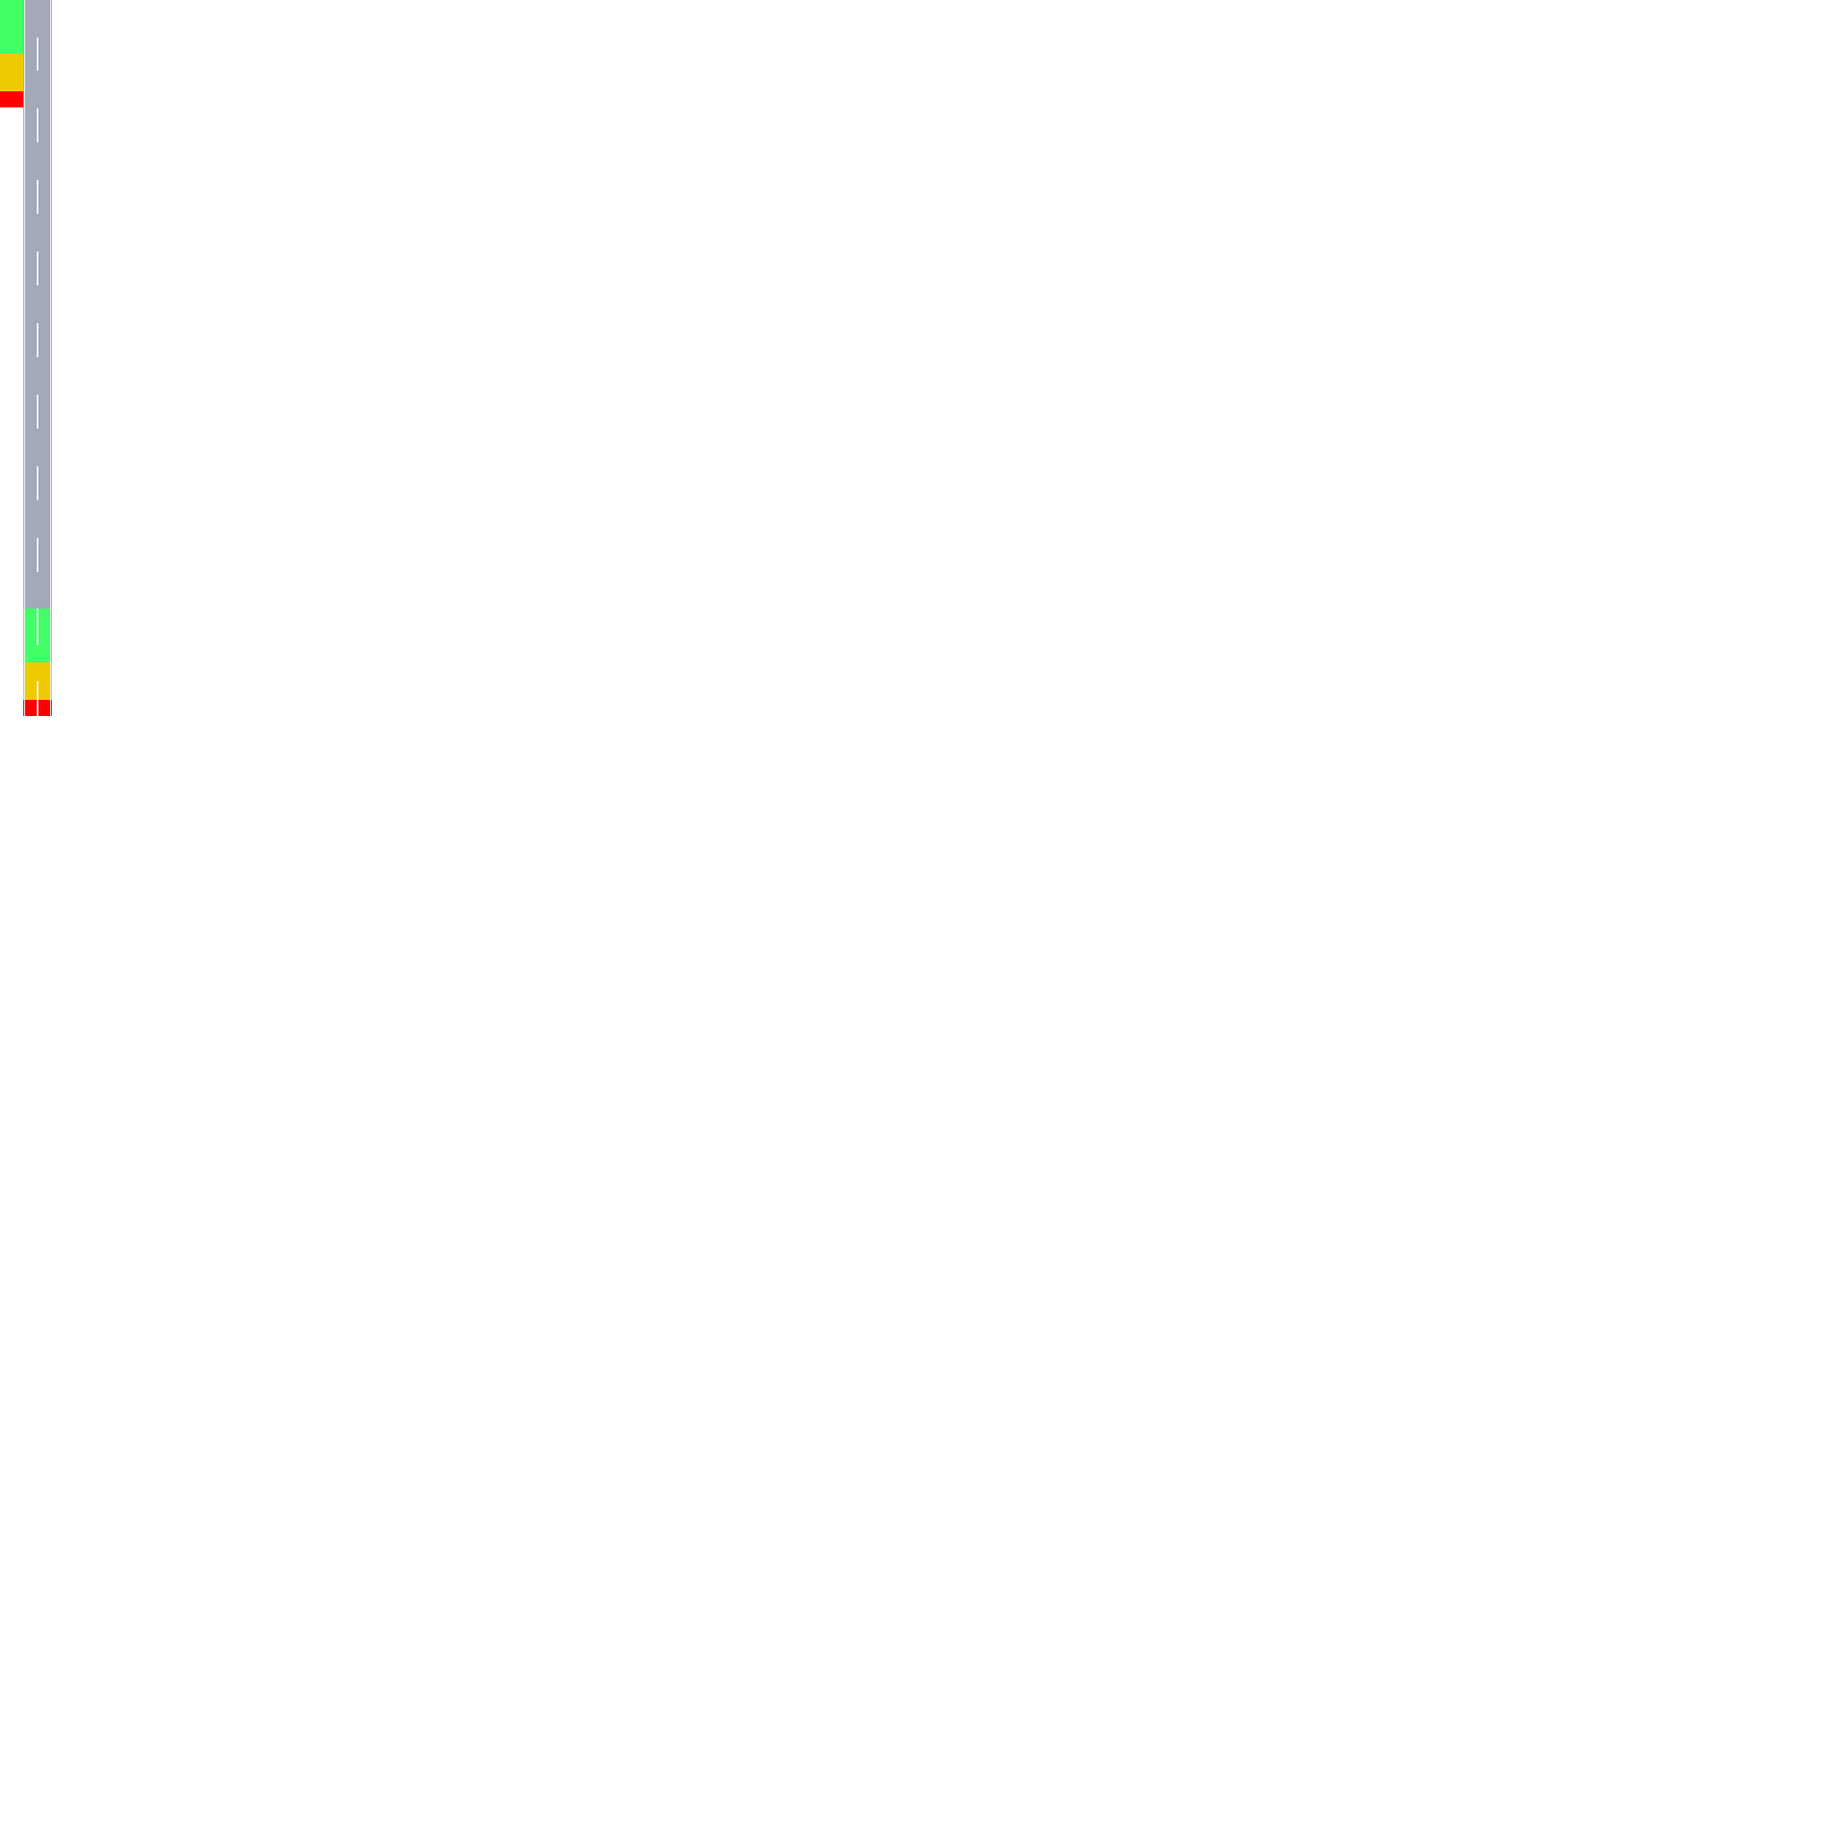
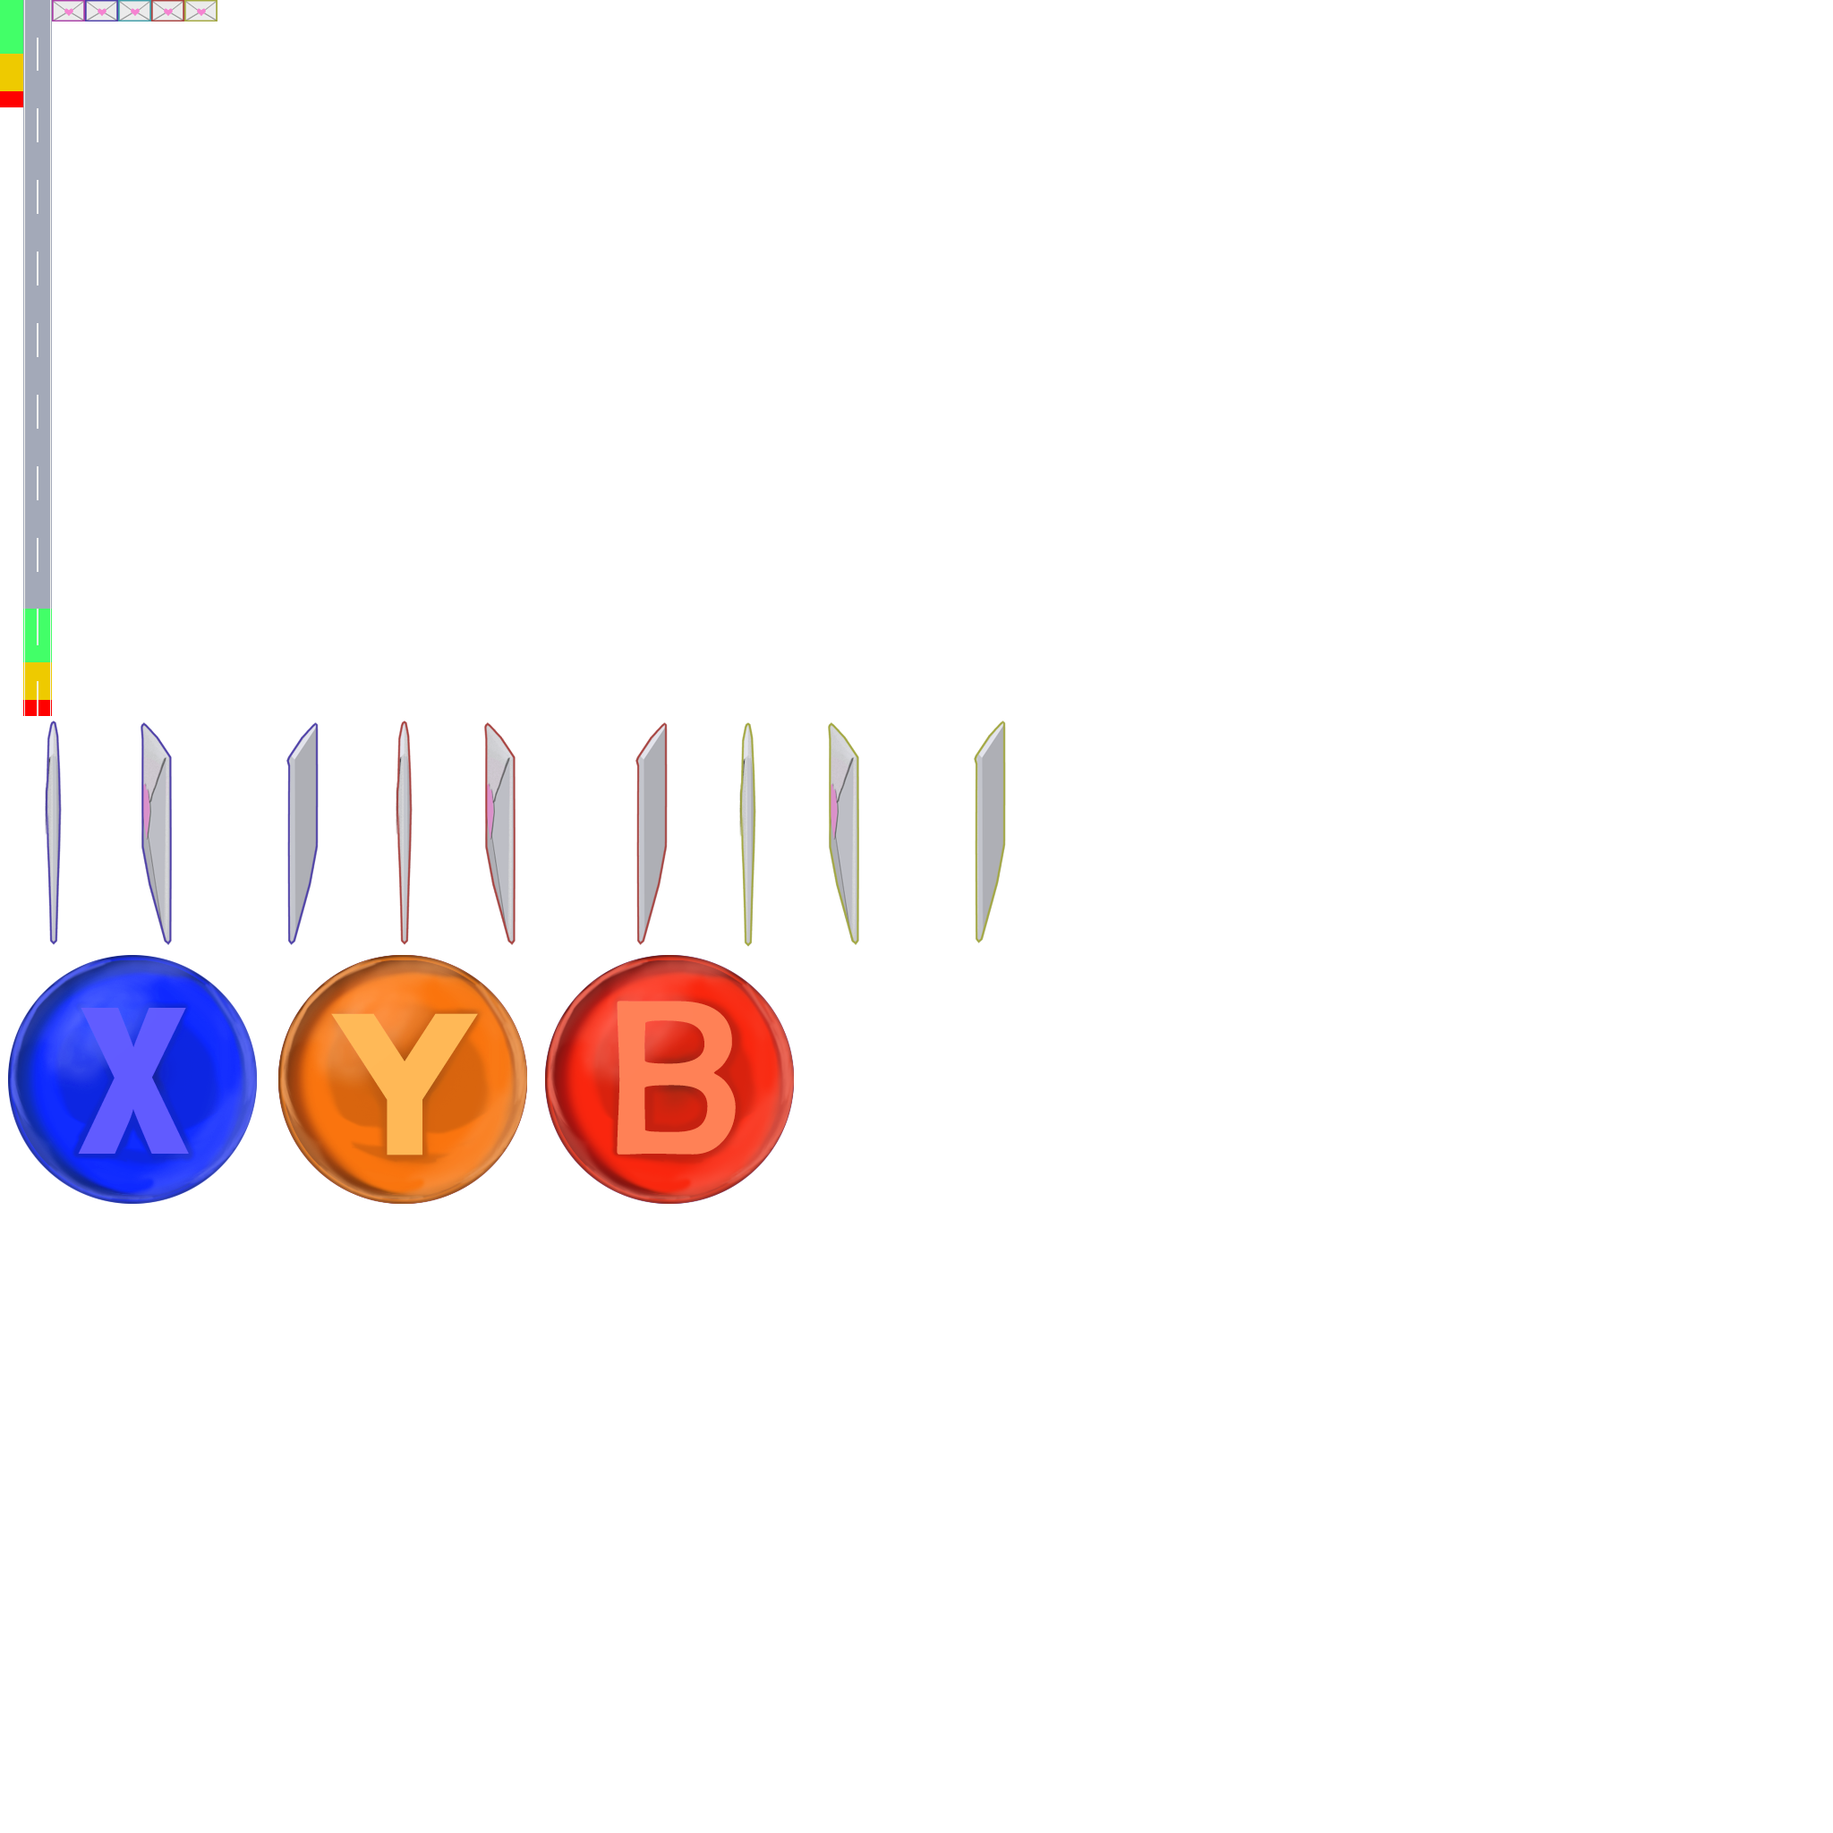
作業内容
- 距離ゲージの表示が正しくなかったので修正
- リザルト画面でコンティニューとタイトルに早く戻れるように変更
- 手紙同士が相殺されていなかったので修正

diff --git a/FrameWork/FrameWork/Fighting/Main/SceneManager/SceneBase/GameScene/GameScene.cpp b/FrameWork/FrameWork/Fighting/Main/SceneManager/SceneBase/GameScene/GameScene.cpp
@@ -35,6 +35,8 @@ SceneBase(SCENE_GAME)
 	m_Rect = D3DXVECTOR2(45 * 2, 96 * 2);
 	FrameCount = 300;
 	SINGLETON_INSTANCE(Lib::TextureManager).Load("Resource/test_001.png",&m_TextureIndex);
+	SINGLETON_INSTANCE(Lib::TextureManager).Load("Resource/test_006.png", &m_ButtonTextureIndex);
+	
 	m_pUvController = new Lib::AnimUvController();
 	m_pUvController->LoadAnimation("Resource/test_001.anim", "Number");
 	m_pVertex = new Lib::Vertex2D(
@@ -45,6 +47,20 @@ SceneBase(SCENE_GAME)
 	m_pVertex->SetTexture(
 		SINGLETON_INSTANCE(Lib::TextureManager).GetTexture(m_TextureIndex));
 
+	m_pXButtonUvController = new Lib::AnimUvController();
+	m_pXButtonUvController->LoadAnimation("Resource/test_006.anim", "b_x");
+	m_pYButtonUvController = new Lib::AnimUvController();
+	m_pYButtonUvController->LoadAnimation("Resource/test_006.anim", "b_y");
+	m_pBButtonUvController = new Lib::AnimUvController();
+	m_pBButtonUvController->LoadAnimation("Resource/test_006.anim", "b_b");
+
+	m_pButtonVertex = new Lib::Vertex2D(
+		SINGLETON_INSTANCE(Lib::DX11Manager).GetDevice(),
+		SINGLETON_INSTANCE(Lib::DX11Manager).GetDeviceContext(),
+		SINGLETON_INSTANCE(Lib::Window).GetWindowSize());
+	m_pButtonVertex->Init(&D3DXVECTOR2(100,100), m_pUvController->GetUV());
+	m_pButtonVertex->SetTexture(
+		SINGLETON_INSTANCE(Lib::TextureManager).GetTexture(m_ButtonTextureIndex));
 
 	SINGLETON_CREATE(CollisionManager);
 	m_pObjectManager = new ObjectManager();
@@ -61,9 +77,16 @@ GameScene::~GameScene()
 
 	Lib::SafeDelete<ObjectManager>(m_pObjectManager);
 
+	m_pButtonVertex->Release();
+	Lib::SafeDelete(m_pButtonVertex);
+
+	Lib::SafeDelete(m_pBButtonUvController);
+	Lib::SafeDelete(m_pYButtonUvController);
+	Lib::SafeDelete(m_pXButtonUvController);
+
 	m_pVertex->Release();
 	Lib::SafeDelete<Lib::Vertex2D>(m_pVertex);
-
+	SINGLETON_INSTANCE(Lib::TextureManager).ReleaseTexture(m_ButtonTextureIndex);
 	SINGLETON_INSTANCE(Lib::TextureManager).ReleaseTexture(m_TextureIndex);
 
 	Lib::SafeDelete<Lib::AnimUvController>(m_pUvController);
@@ -116,6 +139,15 @@ void GameScene::Draw()
 	if (FrameCount > 60 && FrameCount < 240)
 	{
 		m_pVertex->Draw(&m_Pos,m_pUvController->GetUV());
+		D3DXVECTOR2 pos = SINGLETON_INSTANCE(GameDataManager).GetPos(GameDataManager::LEFT_ENEMY_TARGET);
+		pos.y -= 180.f;
+		m_pButtonVertex->Draw(&pos, m_pXButtonUvController->GetUV());
+		pos = SINGLETON_INSTANCE(GameDataManager).GetPos(GameDataManager::FRONT_ENEMY_TARGET);
+		pos.y -= 180.f;
+		m_pButtonVertex->Draw(&pos, m_pYButtonUvController->GetUV());
+		pos = SINGLETON_INSTANCE(GameDataManager).GetPos(GameDataManager::RIGHT_ENEMY_TARGET);
+		pos.y -= 180.f;
+		m_pButtonVertex->Draw(&pos, m_pBButtonUvController->GetUV());
 	}
 	SINGLETON_INSTANCE(Lib::DX11Manager).EndScene();
 }

diff --git a/FrameWork/FrameWork/Fighting/Main/SceneManager/SceneBase/GameScene/ObjectManager/ObjectBase/GameObjectBase/Player/Player.cpp b/FrameWork/FrameWork/Fighting/Main/SceneManager/SceneBase/GameScene/ObjectManager/ObjectBase/GameObjectBase/Player/Player.cpp
@@ -13,6 +13,7 @@
 #include "XInput/XInput.h"
 #include "Sound/DSoundManager.h"
 #include "Helper/Helper.h"
+#include "Event/EventManager.h"
 
 const D3DXVECTOR2 Player::m_RectCollision = D3DXVECTOR2(100, 230);
 
@@ -22,14 +23,24 @@ Player::Player(int _textureIndex)
 	m_pCollisionData = new CollisionData();
 	m_pHandBase.push_back(new RightHand(_textureIndex));
 	m_pHandBase.push_back(new LeftHand(_textureIndex));
-
+	m_ImmortalTime = 0;
 	RECT ClientRect = SINGLETON_INSTANCE(Lib::Window).GetWindowSize();
 	m_Pos.x = static_cast<float>(ClientRect.right / 2);
 	m_Pos.y = static_cast<float>(ClientRect.bottom);
 	m_pCollisionData->SetCollision(&D3DXVECTOR3(m_Pos), &m_RectCollision, CollisionData::PLAYER_TYPE);
-	m_pCollisionData->SetEnable(false);
+	m_pCollisionData->SetEnable(true);
 	SINGLETON_INSTANCE(CollisionManager).AddCollision(m_pCollisionData);
 	SINGLETON_INSTANCE(Lib::DSoundManager).LoadSound("Resource/Sound/se/houchouSE_nagekaeshi.wav", &m_KnifeThrowSoundIndex);
+	
+	SINGLETON_INSTANCE(Lib::EventManager).AddEvent("PlayerDamage", [this]()
+	{
+		if (m_ImmortalTime == 0)
+		{
+			m_ImmortalTime = 120;
+			int playerHp = SINGLETON_INSTANCE(GameDataManager).GetPlayerHp();
+			SINGLETON_INSTANCE(GameDataManager).SetPlayerHp(--playerHp);
+		}
+	});
 }
 
 Player::~Player()
@@ -52,11 +63,14 @@ void Player::Update()
 {
 	KeyCheck();
 	GamePadCheck();
+	if (m_ImmortalTime > 0)
+	{
+		m_ImmortalTime--;
+	}
 
 	m_pCollisionData->SetCollision(&D3DXVECTOR3(m_Pos), &m_RectCollision, CollisionData::PLAYER_TYPE);
 
 	RECT ClientRect = SINGLETON_INSTANCE(Lib::Window).GetWindowSize();
-
 	for (unsigned int i = 0; i < m_pHandBase.size(); i++)
 	{
 		m_pHandBase[i]->Update();

diff --git a/FrameWork/FrameWork/Fighting/Main/SceneManager/SceneBase/GameScene/CollisionManager/CollisionData/CollisionData.cpp b/FrameWork/FrameWork/Fighting/Main/SceneManager/SceneBase/GameScene/CollisionManager/CollisionData/CollisionData.cpp
@@ -49,12 +49,34 @@ bool CollisionData::HitCheck(const CollisionState* _collisionState)
 	}
 
 	
-	if (CollisionCheck(AMAZING_PLAYER_KNIFE_TYPE, ENEMY_KNIFE_TYPE))
+	if (CollisionCheck(AMAZING_PLAYER_KNIFE_TYPE,ENEMY_KNIFE_TYPE) ||
+		CollisionCheck(GOOD_PLAYER_KNIFE_TYPE,ENEMY_KNIFE_TYPE) ||
+		CollisionCheck(FANTASTIC_PLAYER_KNIFE_TYPE,ENEMY_KNIFE_TYPE))
 	{
-		if (Lib::Math::GetDistance(v1.Pos, v2.Pos) < 20.f)
+		if (Lib::Math::GetDistance(v1.Pos, v2.Pos) <= 20.f)
 		{
 			m_CollisionState.HitState = KNIFE_HIT;
 			return true;	
+		}
+		else
+		{
+			m_CollisionState.HitState = NON_HIT;
+			return false;
+		}
+	}
+
+	if (CollisionCheck(ENEMY_KNIFE_TYPE, AMAZING_PLAYER_KNIFE_TYPE) ||
+		CollisionCheck(ENEMY_KNIFE_TYPE, GOOD_PLAYER_KNIFE_TYPE) ||
+		CollisionCheck(ENEMY_KNIFE_TYPE, FANTASTIC_PLAYER_KNIFE_TYPE))
+	{
+		if (m_CollisionState.CollisionType == ENEMY_KNIFE_TYPE)
+		{
+			int var = 0;
+		}
+		if (Lib::Math::GetDistance(v1.Pos, v2.Pos) <= 20.f)
+		{
+			m_CollisionState.HitState = KNIFE_HIT;
+			return true;
 		}
 		else
 		{
@@ -137,14 +159,6 @@ bool CollisionData::HitCheck(const CollisionState* _collisionState)
 				m_CollisionState.HitState = CATCH_HIT;
 				return true;
 			}
-		}
-		else if (v1.CollisionType == ENEMY_KNIFE_TYPE &&
-			v2.CollisionType == PLAYER_TYPE ||
-			v1.CollisionType == PLAYER_TYPE &&
-			v2.CollisionType == ENEMY_KNIFE_TYPE)
-		{
-			m_CollisionState.HitState = KNIFE_HIT;
-			return true;
 		}
 	}
 	m_CollisionState.HitState = NON_HIT;

diff --git a/FrameWork/FrameWork/Fighting/Main/SceneManager/SceneBase/GameScene/ObjectManager/ObjectBase/GameObjectBase/KnifeManager/Knife/Knife.cpp b/FrameWork/FrameWork/Fighting/Main/SceneManager/SceneBase/GameScene/ObjectManager/ObjectBase/GameObjectBase/KnifeManager/Knife/Knife.cpp
@@ -19,11 +19,6 @@ const D3DXVECTOR2 Knife::m_Rect = D3DXVECTOR2(192, 384);
 int	Knife::m_IndexMax = 0;
 
 
-namespace
-{
-	D3DXVECTOR2 g_oldPos = D3DXVECTOR2(0,0);
-}
-
 Knife::Knife(int _textureIndex) :
 m_IsThrow(false),
 m_IsCatch(false),
@@ -71,8 +66,6 @@ Knife::~Knife()
 void Knife::Update()
 {
 	if (!m_IsThrow) return;
-	g_oldPos = m_Pos;
-	
 	if (m_pCollisionData->GetCollisionState().HitState == CollisionData::NON_HIT 
 	&& !m_IsCatch)
 	{
@@ -142,9 +135,7 @@ void Knife::CollisionUpdate()
 	{
 		if (m_TargetDistance <= 0)
 		{
-			int playerHp = SINGLETON_INSTANCE(GameDataManager).GetPlayerHp();
 			SINGLETON_INSTANCE(Lib::EventManager).CallEvent("PlayerDamage");
-			SINGLETON_INSTANCE(GameDataManager).SetPlayerHp(--playerHp);
 			SINGLETON_INSTANCE(Lib::DSoundManager).SoundOperation(m_DamageSoundIndex,Lib::DSoundManager::SOUND_PLAY);
 			SINGLETON_INSTANCE(GameDataManager).SetKnifeBarIsEnable(m_Index, false);
 			m_pCollisionData->SetEnable(false);
@@ -226,6 +217,7 @@ void Knife::CollisionControl()
 		m_pCollisionData->SetEnable(false);
 		m_IsThrow = false;
 		m_IsCatch = false;
+		//SINGLETON_INSTANCE(Lib::EventManager).CallEvent("EnemyDamage");
 	}
 	else if (hitState == CollisionData::CATCH_HIT &&
 		m_Target == GameDataManager::PLAYER_TARGET)

diff --git a/FrameWork/FrameWork/Fighting/Main/SceneManager/SceneBase/ResultScene/JudgeCountWindow/JudgeCountWindow.cpp b/FrameWork/FrameWork/Fighting/Main/SceneManager/SceneBase/ResultScene/JudgeCountWindow/JudgeCountWindow.cpp
@@ -16,7 +16,7 @@ const float JudgeCountWindow::m_DisplayTime = 2.f;
 JudgeCountWindow::JudgeCountWindow(int _textureIndex) :
 	m_Alpha(0)
 {
-	m_Pos = D3DXVECTOR2(1150, 600);
+	m_Pos = D3DXVECTOR2(1000, 600);
 	m_pCountDisplayBase[0] = new GoodCountDisplay(_textureIndex, &D3DXVECTOR2(m_Pos.x, m_Pos.y + 70.f));
 	m_pCountDisplayBase[1] = new AmazingCountDisplay(_textureIndex, &D3DXVECTOR2(m_Pos.x, m_Pos.y));
 	m_pCountDisplayBase[2] = new FantasticCountDisplay(_textureIndex, &D3DXVECTOR2(m_Pos.x, m_Pos.y - 70.f));
@@ -42,16 +42,16 @@ bool JudgeCountWindow::Update()
 		m_pCountDisplayBase[i]->Update();
 	}
 	m_Alpha += m_AddAlphaValue;
-	if (m_Alpha > 1.f)
+	if (ResultScene::KeyCheck())
+	{
+		m_Alpha = 1.f;
+	}
+	if (m_Alpha >= 1.f)
 	{
 		m_Alpha = 1.f;
 		return true;
 	}
 
-	if (ResultScene::KeyCheck())
-	{
-		m_Alpha = 1.f;
-	}
 	return false;
 }
 

diff --git a/FrameWork/FrameWork/Fighting/Main/SceneManager/SceneBase/ResultScene/TimeWindow/TimeWindow.cpp b/FrameWork/FrameWork/Fighting/Main/SceneManager/SceneBase/ResultScene/TimeWindow/TimeWindow.cpp
@@ -19,7 +19,7 @@ m_Alpha(0)
 	SINGLETON_INSTANCE(Lib::TextureManager).Load("Resource/test_001.png", &m_TextureIndex);
 	RECT ClientRect = SINGLETON_INSTANCE(Lib::Window).GetWindowSize();
 
-	m_Pos = D3DXVECTOR2(550, 600);
+	m_Pos = D3DXVECTOR2(750, 600);
 	InitVertex(&m_Pos, &D3DXVECTOR2(24, 64), "t_colon", &m_ColonVertex);
 
 	InitVertex(&D3DXVECTOR2(m_Pos.x - (90.f - m_ColonVertex.Rect.x / 2), m_Pos.y), &D3DXVECTOR2(45, 96), "Number", &m_NumVertex[0]);
@@ -57,14 +57,14 @@ TimeWindow::~TimeWindow()
 bool TimeWindow::Update()
 {
 	m_Alpha += m_AddAlphaValue;
+	if (ResultScene::KeyCheck())
+	{
+		m_Alpha = 1.f;
+	}
 	if (m_Alpha > 1.f)
 	{
 		m_Alpha = 1.f;
 		return true;
-	}
-	if (ResultScene::KeyCheck())
-	{
-		m_Alpha = 1.f;
 	}
 	return false;
 }

diff --git a/FrameWork/FrameWork/Fighting/Main/SceneManager/SceneBase/ResultScene/ResultScene.cpp b/FrameWork/FrameWork/Fighting/Main/SceneManager/SceneBase/ResultScene/ResultScene.cpp
@@ -46,7 +46,7 @@ SceneBase(SCENE_RESULT)
 	else
 	{
 		SINGLETON_INSTANCE(Lib::DSoundManager).LoadSound("Resource/Sound/bgm/gameclearBGM.wav", &m_BgmSoundIndex);
-		SINGLETON_INSTANCE(Lib::TextureManager).Load("Resource/TitleBackGround.png", &m_BackGroundTextureIndex);
+		SINGLETON_INSTANCE(Lib::TextureManager).Load("Resource/Clear.png", &m_BackGroundTextureIndex);
 	}
 	SINGLETON_INSTANCE(Lib::TextureManager).Load("Resource/Text.png", &m_TextTextureIndex);
 	SINGLETON_INSTANCE(Lib::TextureManager).Load("Resource/test_001.png", &m_TextureIndex);

diff --git a/FrameWork/FrameWork/Fighting/Main/SceneManager/SceneBase/GameScene/GameScene.h b/FrameWork/FrameWork/Fighting/Main/SceneManager/SceneBase/GameScene/GameScene.h
@@ -53,6 +53,14 @@ private:
 	int					   m_TextureIndex;
 	int					   m_CountdownSoundIndex;
 	int					   m_BgmSoundIndex;
+
+	/* カウントダウン時のみボタンの案内を出す */
+	int					   m_ButtonTextureIndex;
+	Lib::AnimUvController* m_pXButtonUvController;
+	Lib::AnimUvController* m_pYButtonUvController;
+	Lib::AnimUvController* m_pBButtonUvController;
+	Lib::Vertex2D*		   m_pButtonVertex;
+
 };
 
 

diff --git a/FrameWork/FrameWork/Fighting/Main/SceneManager/SceneBase/ResultScene/ReturnTitleText/ReturnTitleText.cpp b/FrameWork/FrameWork/Fighting/Main/SceneManager/SceneBase/ResultScene/ReturnTitleText/ReturnTitleText.cpp
@@ -55,6 +55,11 @@ ReturnTitleText::~ReturnTitleText()
 bool ReturnTitleText::Update()
 {
 	m_Alpha += m_AddAlphaValue;
+	if (ResultScene::KeyCheck())
+	{
+		m_Alpha = 1.f;
+	}
+
 	if (m_IsButtonEnable)
 	{
 		if (m_IsSelect)
@@ -73,10 +78,6 @@ bool ReturnTitleText::Update()
 		m_IsButtonEnable = true;
 	}
 
-	if (ResultScene::KeyCheck())
-	{
-		m_Alpha = 1.f;
-	}
 	return m_IsButtonEnable;
 }
 

diff --git a/FrameWork/FrameWork/Fighting/Main/SceneManager/SceneBase/ResultScene/ContinueText/ContinueText.cpp b/FrameWork/FrameWork/Fighting/Main/SceneManager/SceneBase/ResultScene/ContinueText/ContinueText.cpp
@@ -55,6 +55,10 @@ ContinueText::~ContinueText()
 bool ContinueText::Update()
 {
 	m_Alpha += m_AddAlphaValue;
+	if (ResultScene::KeyCheck())
+	{
+		m_Alpha = 1.f;
+	}
 	if (m_IsButtonEnable)
 	{
 		if (m_IsSelect)
@@ -73,10 +77,6 @@ bool ContinueText::Update()
 		m_IsButtonEnable = true;
 	}
 
-	if (ResultScene::KeyCheck())
-	{
-		m_Alpha = 1.f;
-	}
 	return m_IsButtonEnable;
 }
 

diff --git a/FrameWork/FrameWork/Fighting/Main/SceneManager/SceneBase/GameScene/ObjectManager/ObjectBase/UIBase/UIBase.cpp b/FrameWork/FrameWork/Fighting/Main/SceneManager/SceneBase/GameScene/ObjectManager/ObjectBase/UIBase/UIBase.cpp
@@ -1,4 +1,4 @@
-#include "Event/EventManager.h"
+#include "Event/EventManager.h"
 #include "UIBase.h"
 #include "Math/Math.h"
 
@@ -8,6 +8,7 @@ m_VibAngle(0),
 m_Time(0),
 m_VibValue(0)
 {
+	/* プレイヤーがダメージを受けたときのEventの登録 */
 	SINGLETON_INSTANCE(Lib::EventManager).AddEvent("PlayerDamage", [this]()
 	{
 		m_Time = 60;

diff --git a/FrameWork/FrameWork/Fighting/Main/SceneManager/SceneBase/ResultScene/BackGround/ResultBackGround.cpp b/FrameWork/FrameWork/Fighting/Main/SceneManager/SceneBase/ResultScene/BackGround/ResultBackGround.cpp
@@ -49,14 +49,14 @@ namespace Result
 	bool BackGround::Update()
 	{
 		m_Alpha += m_AddAlphaValue;
-		if (m_Alpha > 1.f)
-		{
-			m_Alpha = 1.f;
-			return true;
-		}
 		if (ResultScene::KeyCheck())
 		{
 			m_Alpha = 1.f;
+		}
+		if (m_Alpha >= 1.f)
+		{
+			m_Alpha = 1.f;
+			return true;
 		}
 		return false;
 	}
